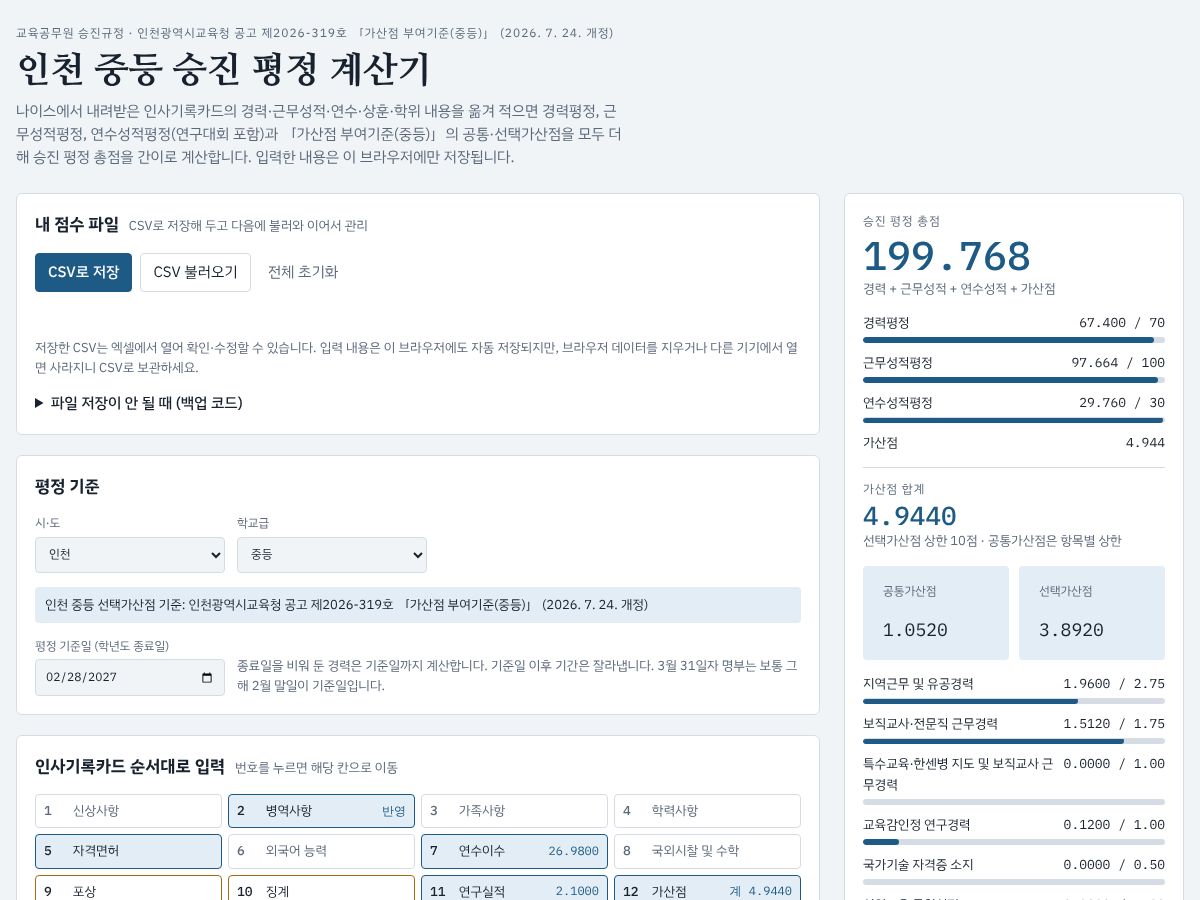
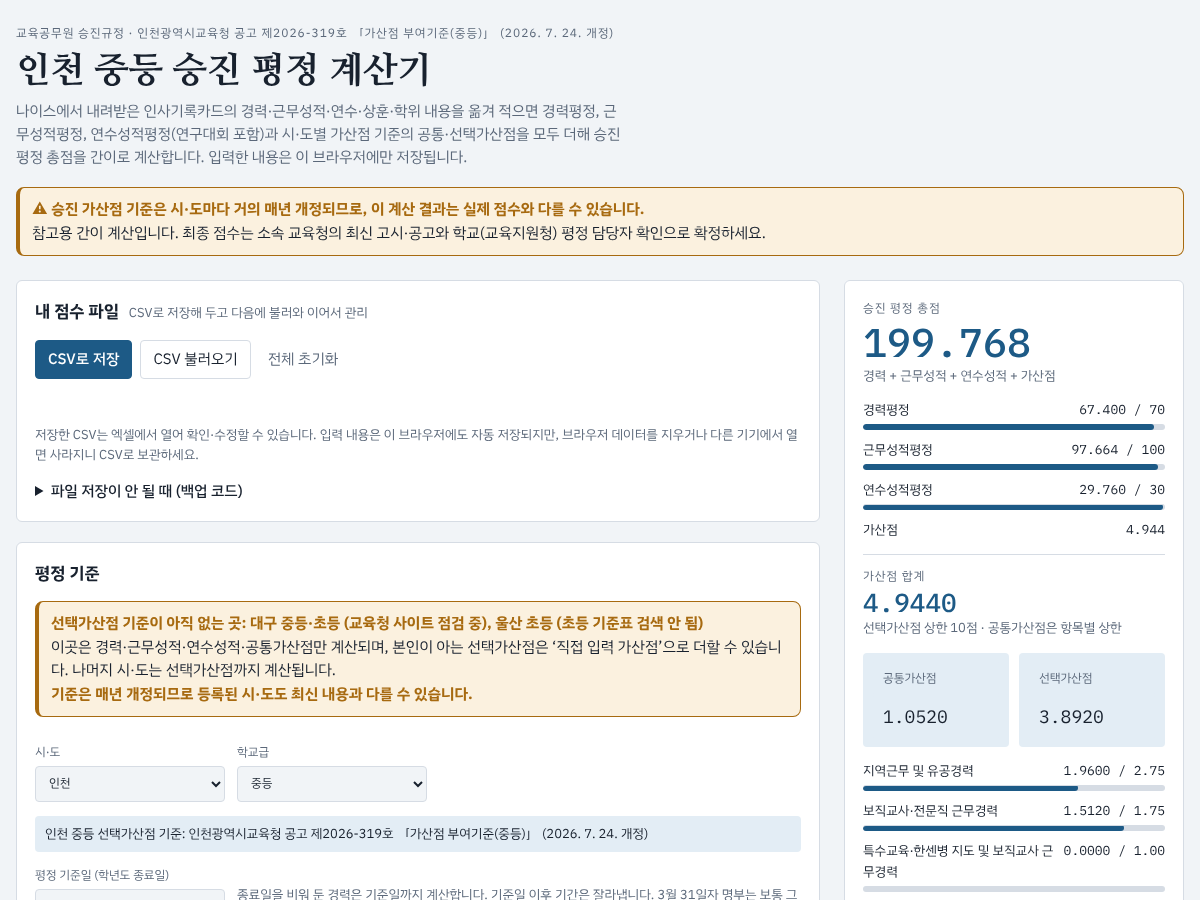
같은 기간 중복 경력을 자동 정리 (월 점수가 높은 경력 하나만 평정)
- 같은 항목끼리, 시·도 중복 금지 쌍, 인천·제주의 같은 영역 택일은 겹친 기간을 점수가 높은 쪽으로만 계산
- 인천 2015.3.1.~2017.2.28. 도서·벽지/농어촌과 학교교육 유공경력 겹침은 유공경력 50% 함께 인정
- 경고문에 어느 쪽으로 계산했는지 표시

Claude-Session: https://claude.ai/code/session_01MvrH3jYnibm2V17J65LjEj

Changed region(s): [[0.0, 0.1244, 0.9867, 1.0], [0.3392, 0.5911, 0.37, 0.6222]]

diff --git a/index.html b/index.html
@@ -612,6 +612,7 @@ footer { font-size: 12px; color: var(--muted); max-width: 80ch; }
   function legacy(name, from, to) { return { g: "g6", name: name, cap: 0.5, periods: [{ from: from, to: to, m: 0.005, d: 0.00017 }] }; }
   var RULESETS = {
     "incheon:mid": {
+      groupExclusive: true, halfMerit: true,
       ready: true, source: "인천광역시교육청 공고 제2026-319호 「가산점 부여기준(중등)」 (2026. 7. 24. 개정)",
       groups: {
         g1: { name: "지역근무 및 유공경력", cap: 2.75 },
@@ -686,6 +687,7 @@ footer { font-size: 12px; color: var(--muted); max-width: 80ch; }
     },
     /* 인천 유치원·초등·특수: 공고 제2022-187호 (2022. 7. 14.) */
     "incheon:ele": {
+      groupExclusive: true, halfMerit: true,
       ready: true, source: "인천광역시교육청 공고 제2022-187호 「가산점 부여기준(유치원·초등·특수)」 (2022. 7. 14. 개정)",
       notice: "2022. 7. 14. 고시 기준입니다. 이후 개정이 있었다면 반영되지 않았을 수 있습니다.",
       groups: {
@@ -1603,7 +1605,7 @@ footer { font-size: 12px; color: var(--muted); max-width: 80ch; }
       groups.gHomeroom = { name: "중등학교 담임교사 근무경력", cap: 1.5 };
     }
     return {
-      ready: true, source: "「제주특별자치도교육감 소속 교육공무원 승진가산점 평정규정」 (2026. 8. 19. 개정)",
+      groupExclusive: true, ready: true, source: "「제주특별자치도교육감 소속 교육공무원 승진가산점 평정규정」 (2026. 8. 19. 개정)",
       notice: "도서·벽지는 근무 시기에 맞는 구역(1985년 이전 갑·을·병, 1986~1997 가~라, 1998년 이후 A~E, 타 시·도는 급지)을 골라 행을 나눠 입력하세요. 1997. 12. 31. 이전 타 시·도 도서·벽지 경력, 사이버학습 학급 운영 유공교사(2011.6.1.~2016.2.29.), 세 자녀 이상 가산점(세 자녀 0.002·네 자녀 0.004·다섯 자녀 이상 0.006)은 ‘직접 입력 가산점’으로 넣으세요. 교육실습 협력학교는 학년도당 6개월만, 도서지역 구분 선발 교사는 의무근무(8년) 만료 시 최대 2년만 입력하세요. 2013. 2. 28. 이전 취득분 경과 상한(보직 1.75, 도서·벽지 3.00, 특수 1.25, 도서·벽지·특수 합산 3.50)은 반영하지 않았습니다. 보직교사는 " +
         (ele ? "유·초등 2027. 2. 28." : "중등 2024. 2. 29.") + "까지 취득분을 2.00점까지만 인정합니다.",
       selectCap: 10,
@@ -2407,21 +2409,128 @@ footer { font-size: 12px; color: var(--muted); max-width: 80ch; }
   }
   function segPts(sp, rm, rd) { return sp.m * rm + sp.d * rd; }
 
+  /* ---------- 같은 기간 중복 경력 정리 ----------
+     같은 항목끼리, 또는 택일 대상(시·도 중복 금지 쌍·같은 영역 택일)끼리 기간이 겹치면
+     겹친 기간은 월 점수가 높은 경력 하나만 평정하고 나머지에서는 뺀다.
+     인천: 2015.3.1.~2017.2.28. 도서·벽지/농어촌과 학교교육 유공경력이 겹치면 유공경력을 50%로 함께 인정. */
+  var HALF_FROM = "2015-03-01", HALF_TO = "2017-02-28";
+  function resolveOverlaps(base) {
+    var all = [];
+    state.periods.forEach(function (p, order) {
+      segments(p, base).forEach(function (g) { all.push({ p: p, g: g, order: order, pieces: [{ s: g.s, e: g.e, half: false }] }); });
+    });
+    function conflict(a, b) {
+      if (a.p.item === b.p.item) return "same";
+      if (PAIRSET[a.p.item + "|" + b.p.item]) return "pair";
+      var A = ITEMS[a.p.item], B = ITEMS[b.p.item];
+      if (REG.groupExclusive && A && B && A.g === B.g && A.g !== "common") return "group";
+      return null;
+    }
+    function halfPair(a, b) {
+      var k = [a.p.item, b.p.item].sort().join("|");
+      return REG.halfMerit && (k === "island|merit" || k === "merit|rural");
+    }
+    function subtract(pieces, s, e) {
+      var out = [];
+      pieces.forEach(function (x) {
+        if (e < x.s || s > x.e) { out.push(x); return; }
+        if (x.s < s) out.push({ s: x.s, e: s - DAY, half: x.half });
+        if (x.e > e) out.push({ s: e + DAY, e: x.e, half: x.half });
+      });
+      return out;
+    }
+    function halve(pieces, s, e) {
+      var out = [];
+      pieces.forEach(function (x) {
+        var a = Math.max(x.s, s), b = Math.min(x.e, e);
+        if (b < a || x.half) { out.push(x); return; }
+        if (x.s < a) out.push({ s: x.s, e: a - DAY, half: false });
+        out.push({ s: a, e: b, half: true });
+        if (x.e > b) out.push({ s: b + DAY, e: x.e, half: false });
+      });
+      return out;
+    }
+    // 월 점수가 높은 경력부터 차례로 기간을 차지한다 (같으면 먼저 입력한 행)
+    all.sort(function (x, y) { return (y.g.rm - x.g.rm) || (x.order - y.order) || (x.g.s - y.g.s); });
+    var kept = [], cut = {}, lost = {}, soft = {};
+    var hf = parse(HALF_FROM), ht = parse(HALF_TO);
+    all.forEach(function (x) {
+      kept.forEach(function (y) {
+        var kind = conflict(x, y);
+        if (!kind) {
+          var A = ITEMS[x.p.item], B = ITEMS[y.p.item];
+          if (A && B && A.g === B.g && A.g !== "common" && x.g.s <= y.g.e && y.g.s <= x.g.e)
+            soft[[x.p.item, y.p.item].sort().join("|")] = "‘" + A.name + "’과 ‘" + B.name + "’ 기간이 겹칩니다. 이 시·도 기준에서 같은 기간을 함께 인정하지 않는다면 한쪽 날짜를 조정하세요.";
+          return;
+        }
+        y.pieces.forEach(function (yp) {
+          var s = Math.max(yp.s, x.g.s), e = Math.min(yp.e, x.g.e);
+          if (e < s) return;
+          if (halfPair(x, y)) {
+            // 유공경력 50% 중복 인정 구간은 둘 다 남기고, 유공경력 쪽을 절반으로
+            var hs = Math.max(s, hf), he = Math.min(e, ht);
+            if (he >= hs) {
+              if (x.p.item === "merit") x.pieces = halve(x.pieces, hs, he);
+              else y.pieces = halve(y.pieces, hs, he);
+              if (s < hs) x.pieces = subtract(x.pieces, s, hs - DAY);
+              if (e > he) x.pieces = subtract(x.pieces, he + DAY, e);
+              return;
+            }
+          }
+          var gone = { m: 0, d: 0 };
+          x.pieces.forEach(function (xp) {
+            var a = Math.max(xp.s, s), b = Math.min(xp.e, e);
+            if (b >= a) { var sp = span(a, b); gone.m += sp.m; gone.d += sp.d; }
+          });
+          if (!gone.m && !gone.d) return;
+          x.pieces = subtract(x.pieces, s, e);
+          var key = x.p.item + "|" + y.p.item + "|" + kind;
+          if (!lost[key]) lost[key] = { lose: x.p.item, win: y.p.item, kind: kind, m: 0, d: 0 };
+          lost[key].m += gone.m; lost[key].d += gone.d;
+          cut[x.p.id] = true;
+        });
+      });
+      kept.push(x);
+    });
+    var segs = {};
+    kept.forEach(function (x) {
+      x.pieces.forEach(function (pc) {
+        var sp = span(pc.s, pc.e);
+        if (!sp.m && !sp.d) return;
+        var f = pc.half ? 0.5 : 1;
+        (segs[x.p.id] = segs[x.p.id] || []).push({ idx: x.g.idx, s: pc.s, e: pc.e, sp: sp, rm: x.g.rm * f, rd: x.g.rd * f, half: pc.half });
+      });
+    });
+    Object.keys(segs).forEach(function (id) { segs[id].sort(function (a, b) { return a.s - b.s; }); });
+    var notes = Object.keys(lost).map(function (k) {
+      var L = lost[k], A = ITEMS[L.lose], B = ITEMS[L.win];
+      var len = fmtSpan({ m: L.m + Math.floor(L.d / 30), d: L.d % 30 });
+      if (L.kind === "same") return "‘" + A.name + "’ 기간이 서로 겹쳐, 겹친 " + len + "은 한 번만 계산했습니다.";
+      return "‘" + A.name + "’과 ‘" + B.name + "’ 기간이 " + len + " 겹칩니다. 같은 기간은 하나만 평정하므로, 겹친 기간은 월 점수가 높은 ‘" + B.name + "’으로 계산하고 ‘" + A.name + "’에서는 뺐습니다.";
+    });
+    Object.keys(soft).forEach(function (k) { notes.push(soft[k]); });
+    if (REG.halfMerit && all.some(function (x) { return x.pieces.some(function (pc) { return pc.half; }); }))
+      notes.push("2015.3.1.~2017.2.28.에 겹친 학교교육 유공경력은 50%만 함께 인정했습니다.");
+    return { segs: segs, cut: cut, notes: notes };
+  }
+
   function compute() {
     var base = parse(state.baseDate);
     var res = { items: {}, rows: {}, warns: [] };
     // 경력 기간 집계: 항목 > 평정구간 > 구역 별로 개월·일 합산
     var agg = {};
+    var resolved = resolveOverlaps(base);
     state.periods.forEach(function (p) {
-      var segs = segments(p, base), pts = 0, tot = { m: 0, d: 0 };
+      var segs = resolved.segs[p.id] || [], pts = 0, tot = { m: 0, d: 0 };
       segs.forEach(function (g) {
         pts += segPts(g.sp, g.rm, g.rd); tot.m += g.sp.m; tot.d += g.sp.d;
-        var k = p.item + "|" + g.idx + "|" + (p.grade || "");
-        if (!agg[k]) agg[k] = { item: p.item, idx: g.idx, grade: p.grade || "", m: 0, d: 0, rm: g.rm, rd: g.rd };
+        var k = p.item + "|" + g.idx + "|" + (p.grade || "") + (g.half ? "|h" : "");
+        if (!agg[k]) agg[k] = { item: p.item, idx: g.idx, grade: p.grade || "", half: !!g.half, m: 0, d: 0, rm: g.rm, rd: g.rd };
         agg[k].m += g.sp.m; agg[k].d += g.sp.d;
       });
-      res.rows[p.id] = { segs: segs, pts: pts, tot: tot };
+      res.rows[p.id] = { segs: segs, pts: pts, tot: tot, cut: resolved.cut[p.id] || null };
     });
+    resolved.notes.forEach(function (n) { res.warns.push(n); });
     var itemRaw = {}, itemSub = {};
     Object.keys(agg).forEach(function (k) {
       var a = agg[k];
@@ -2431,7 +2540,7 @@ footer { font-size: 12px; color: var(--muted); max-width: 80ch; }
       itemSub[sk] = (itemSub[sk] || 0) + pts;
       if (!res.items[a.item]) res.items[a.item] = { raw: 0, lines: [] };
       var per = ITEMS[a.item].periods[a.idx];
-      res.items[a.item].lines.push((a.grade ? gradeLabel(a.grade) + " " : "") + (per.label ? "[" + per.label + "] " : "") + fmtSpan({ m: a.m, d: a.d }));
+      res.items[a.item].lines.push((a.grade ? gradeLabel(a.grade) + " " : "") + (per.label ? "[" + per.label + "] " : "") + (a.half ? "[중복 50%] " : "") + fmtSpan({ m: a.m, d: a.d }));
     });
     Object.keys(itemSub).forEach(function (sk) {
       var parts = sk.split("|"), it = ITEMS[parts[0]], per = it.periods[+parts[1]];
@@ -2493,23 +2602,6 @@ footer { font-size: 12px; color: var(--muted); max-width: 80ch; }
     res.select = Math.min(sel, res.selectCap);
     res.total = res.common + res.select;
 
-    // 중복 경력 검사
-    var ps = state.periods.filter(function (p) { return res.rows[p.id] && res.rows[p.id].segs.length; });
-    for (var i = 0; i < ps.length; i++) for (var j = i + 1; j < ps.length; j++) {
-      var a = ps[i], b = ps[j], ra = res.rows[a.id], rb = res.rows[b.id];
-      var as = Math.min.apply(null, ra.segs.map(function (x) { return x.s; })), ae = Math.max.apply(null, ra.segs.map(function (x) { return x.e; }));
-      var bs = Math.min.apply(null, rb.segs.map(function (x) { return x.s; })), be = Math.max.apply(null, rb.segs.map(function (x) { return x.e; }));
-      if (Math.max(as, bs) > Math.min(ae, be)) continue;
-      var A = ITEMS[a.item], B = ITEMS[b.item], msg = null;
-      var label = "‘" + A.name + "’과 ‘" + B.name + "’";
-      if (a.item === b.item) msg = "‘" + A.name + "’ 기간이 서로 겹칩니다. 같은 기간은 한 번만 평정하므로 날짜를 확인하세요.";
-      else if (A.g === B.g && A.g !== "common") {
-        var pair = [a.item, b.item].sort().join("|");
-        if (pair === "island|merit" || pair === "merit|rural") msg = label + " 기간이 겹칩니다. 2015.3.1.~2017.2.28.만 유공경력 50% 중복 인정, 그 밖에는 유리한 하나만 평정합니다.";
-        else msg = label + " 기간이 겹칩니다. 같은 그룹 안에서는 유리한 경력 하나만 평정합니다.";
-      } else if (PAIRSET[a.item + "|" + b.item]) msg = label + " 기간이 겹칩니다. 중복 경력 처리 기준상 택일 대상입니다.";
-      if (msg) res.warns.push(msg);
-    }
     if (res.items.research && res.items.research2 && res.items.research2.val < res.items.research2.raw && res.items.research2.cap < ITEMS.research2.cap)
       res.warns.push("교육부·교육감 지정 연구학교 경력은 합산 " + ITEMS.research2.cap + "점을 넘을 수 없어 교육감지정 쪽을 줄였습니다.");
     if (sel > res.selectCap) res.warns.push("선택가산점 총합계 " + res.selectCap + "점 상한을 넘어 잘렸습니다.");
